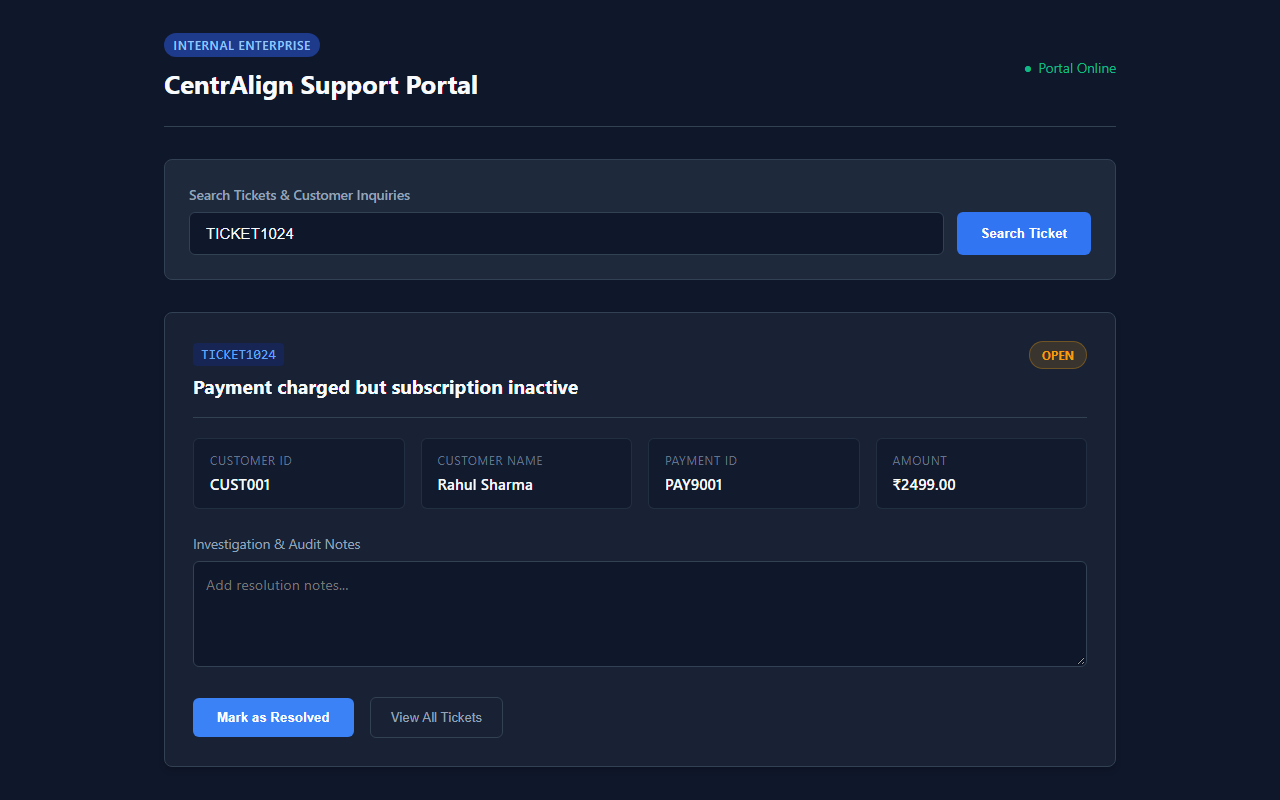
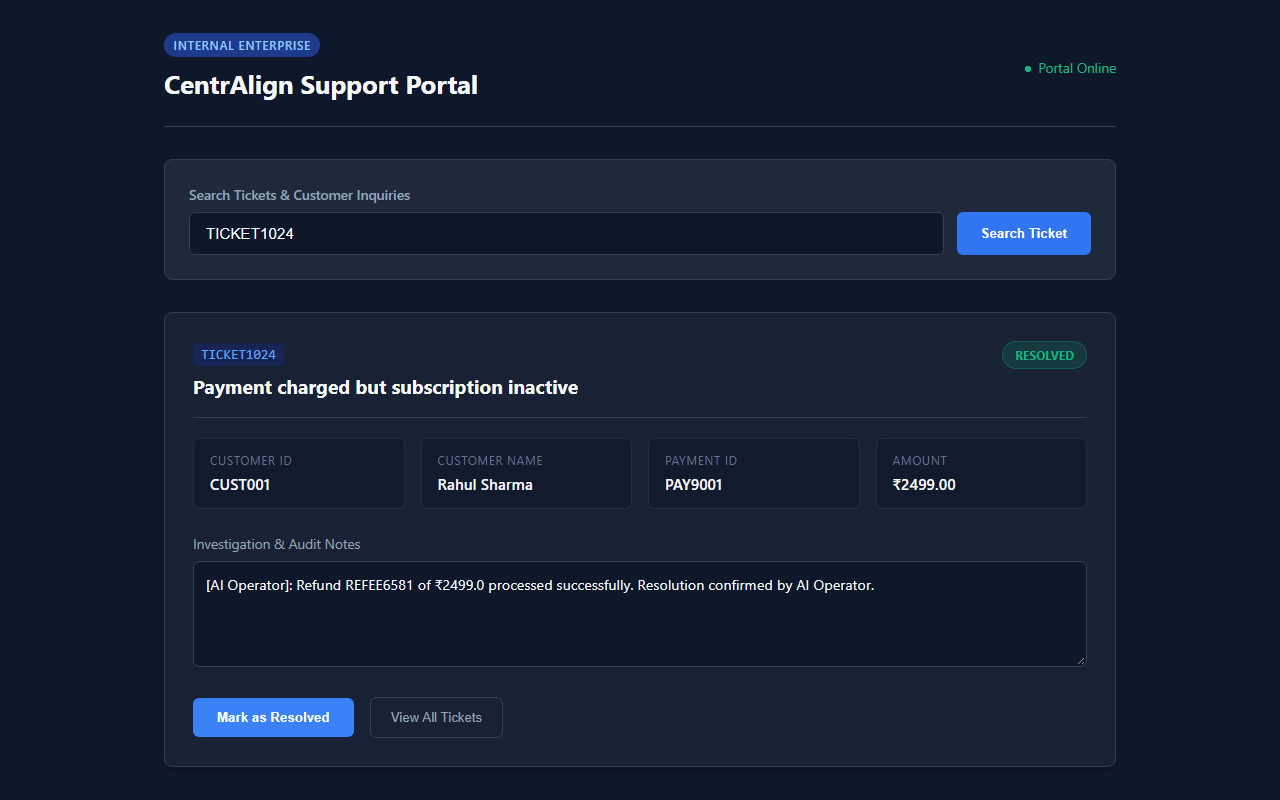
feat: add Dockerfile, render deployment blueprint, and remove UI emojis

Changed region(s): [[0.1562, 0.7188, 0.6875, 0.75], [0.7812, 0.4062, 0.8438, 0.4688]]

diff --git a/frontend/index.html b/frontend/index.html
@@ -111,7 +111,13 @@
             <section class="execution-workspace">
                 <!-- Human Approval Gate Alert (Rendered conditionally) -->
                 <div id="approval-gate-banner" class="approval-card hidden">
-                    <div class="approval-icon">⚠</div>
+                    <div class="approval-icon">
+                        <svg width="24" height="24" viewBox="0 0 24 24" fill="none" stroke="currentColor" stroke-width="2">
+                            <path d="M10.29 3.86L1.82 18a2 2 0 0 0 1.71 3h16.94a2 2 0 0 0 1.71-3L13.71 3.86a2 2 0 0 0-3.42 0z"></path>
+                            <line x1="12" y1="9" x2="12" y2="13"></line>
+                            <line x1="12" y1="17" x2="12.01" y2="17"></line>
+                        </svg>
+                    </div>
                     <div class="approval-content">
                         <h4>Human Approval Required</h4>
                         <p id="approval-description">A high-impact action requires operational authorization before proceeding.</p>
@@ -120,10 +126,10 @@
                         </div>
                         <div class="approval-actions">
                             <button class="btn-approve" onclick="submitApprovalDecision(true)">
-                                ✓ Approve & Continue Execution
+                                Approve & Continue Execution
                             </button>
                             <button class="btn-reject" onclick="submitApprovalDecision(false)">
-                                ✗ Reject & Abort Action
+                                Reject & Abort Action
                             </button>
                         </div>
                     </div>

diff --git a/frontend/app.js b/frontend/app.js
@@ -60,10 +60,10 @@ function renderTaskState(state) {
     const verifBadge = document.getElementById("verification-status-badge");
     const isVerified = state.verification && state.verification.verified;
     if (isVerified) {
-        verifBadge.textContent = "✓ VERIFIED (LEDGER + TICKET)";
+        verifBadge.textContent = "VERIFIED (LEDGER + TICKET)";
         verifBadge.className = "agent-badge verified";
     } else if (state.final_status === "failed_verification") {
-        verifBadge.textContent = "✗ VERIFICATION FAILED";
+        verifBadge.textContent = "VERIFICATION FAILED";
         verifBadge.className = "agent-badge failed";
     } else {
         verifBadge.textContent = "UNVERIFIED";
@@ -282,7 +282,7 @@ async function checkSystemStatus() {
             if (badge) {
                 if (data.hasKey) {
                     badge.className = "agent-badge live-gemini";
-                    badge.textContent = `Gemini (${data.model} • Live)`;
+                    badge.textContent = `Gemini (${data.model} | Live)`;
                 } else {
                     badge.className = "agent-badge fallback-engine";
                     badge.textContent = "Deterministic Fallback (Offline)";

diff --git a/mock_portal/portal.js b/mock_portal/portal.js
@@ -95,15 +95,15 @@ async function markResolved() {
             const badge = document.getElementById("ticket-status-badge");
             badge.textContent = "RESOLVED";
             badge.className = "badge badge-resolved";
-            resultMsg.textContent = "✓ Ticket successfully marked as RESOLVED";
+            resultMsg.textContent = "Ticket successfully marked as RESOLVED";
             resultMsg.style.color = "#10b981";
             loadAllTickets();
         } else {
-            resultMsg.textContent = "✗ Failed to update ticket status";
+            resultMsg.textContent = "Failed to update ticket status";
             resultMsg.style.color = "#ef4444";
         }
     } catch (err) {
-        resultMsg.textContent = `✗ Error: ${err.message}`;
+        resultMsg.textContent = `Error: ${err.message}`;
         resultMsg.style.color = "#ef4444";
     }
 }

diff --git a/mock_portal/portal.css b/mock_portal/portal.css
@@ -68,6 +68,15 @@ body {
     gap: 0.4rem;
 }
 
+.status-dot {
+    display: inline-block;
+    width: 8px;
+    height: 8px;
+    border-radius: 50%;
+    background: var(--success);
+    box-shadow: 0 0 8px rgba(16, 185, 129, 0.4);
+}
+
 .search-section {
     background: var(--bg-surface);
     border: 1px solid var(--border-color);

diff --git a/mock_portal/index.html b/mock_portal/index.html
@@ -14,7 +14,7 @@
                 <h1>CentrAlign Support Portal</h1>
             </div>
             <div class="header-status">
-                <span class="status-indicator">●</span> Portal Online
+                <span class="status-dot"></span> Portal Online
             </div>
         </header>
 

diff --git a/app/config.py b/app/config.py
@@ -7,12 +7,12 @@ BASE_DIR = Path(__file__).resolve().parent.parent
 class Settings(BaseSettings):
     PROJECT_NAME: str = "CentrAlign AI Operator"
     VERSION: str = "1.0.0"
-    HOST: str = "127.0.0.1"
+    HOST: str = "0.0.0.0"
     PORT: int = 8000
     DATABASE_PATH: str = str(BASE_DIR / "enterprise.db")
     AUTO_REFUND_THRESHOLD: float = 5000.0
     GEMINI_API_KEY: str = ""
-    GEMINI_MODEL: str = "gemini-2.5-flash"
+    GEMINI_MODEL: str = "gemini-3.1-flash-lite"
     PLAYWRIGHT_HEADLESS: bool = True
     POLICY_FILE_PATH: str = str(BASE_DIR / "policies" / "refund_policy.md")
 
